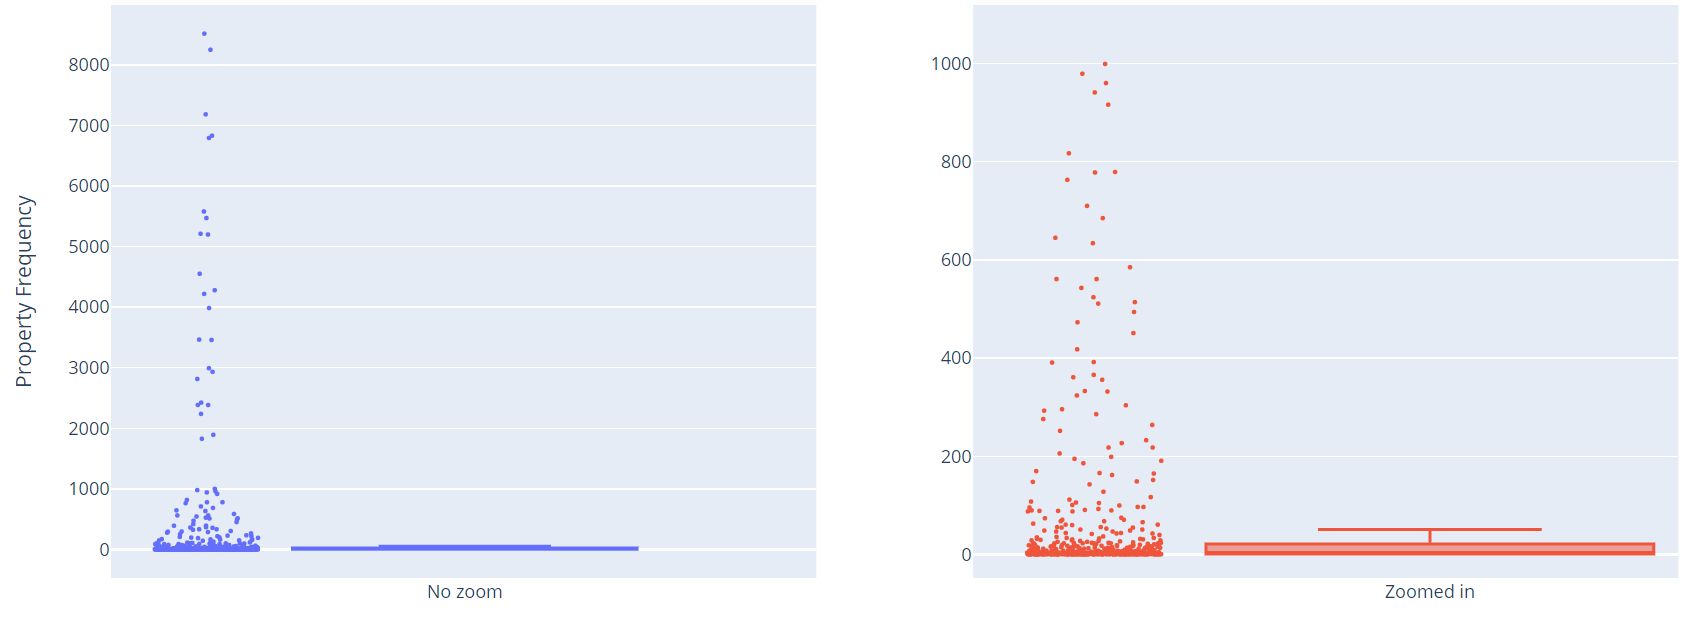
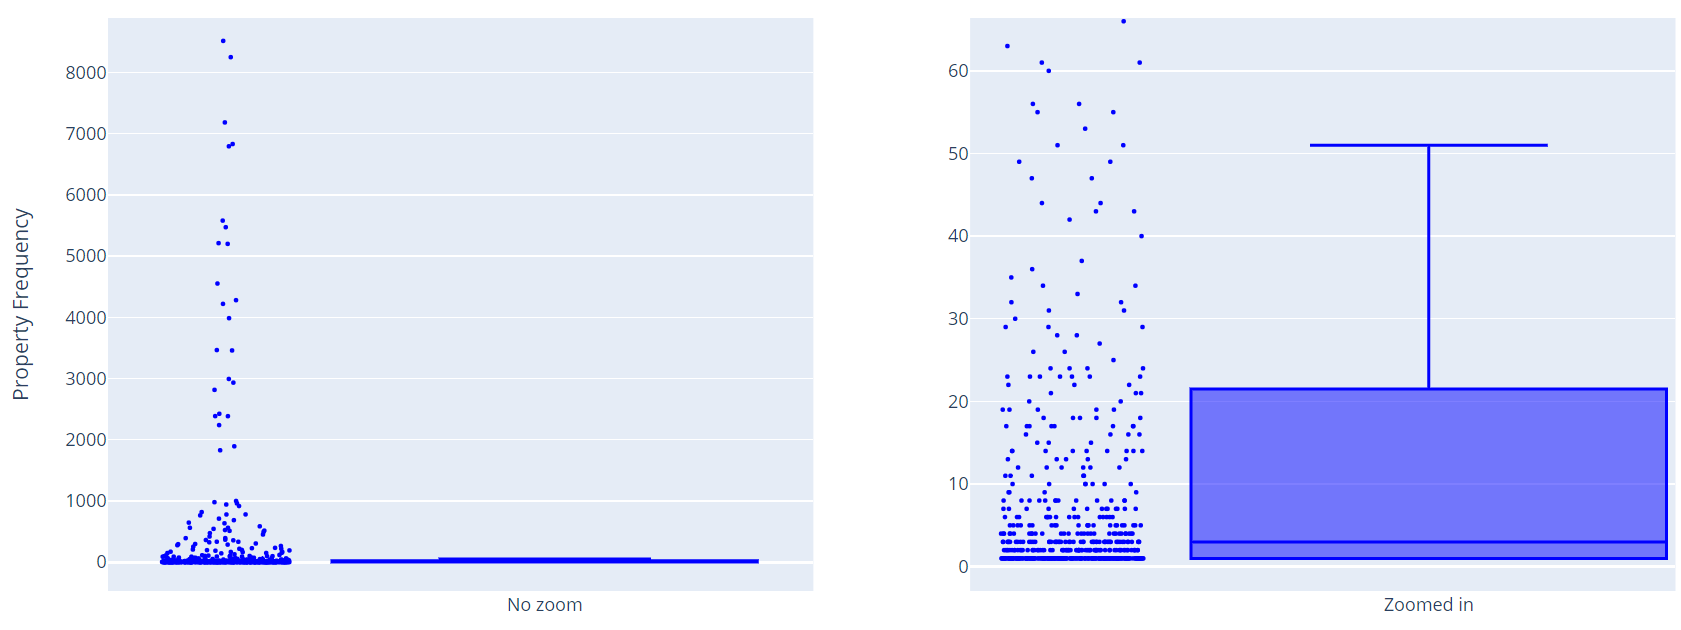
åh nej

diff --git a/FaerdigKode/DataPartiton.py b/FaerdigKode/DataPartiton.py
@@ -38,7 +38,7 @@ def getBoxplotValues(df):
     return upper_fence, overlap_range
 
 
-def splitBooleanDF(property_list, partition, external_ids = True):
+def splitBooleanDF(property_list, partition, external_ids=True):
     '''
 
     :param property_list: Input is the nested property list extracted from extractProperties()
@@ -52,11 +52,10 @@ def splitBooleanDF(property_list, partition, external_ids = True):
     df = property_count_function(property_list)
     boolean_df = getBooleanDF(property_list)
 
-
     # Define the splits - the lower is the boxplot upperfence and the upper is at the number corresponding to 25 % frequency
     lower_split = round(getBoxplotValues(df)[0], 0)  # Skal være count dataframe - svarer til Upper Fence
     upper_split = round(len(boolean_df) * 0.25, 0)  # Skal være boolean dataframe - svarer til support > 0.25
-    overlap_range = round(getBoxplotValues(df)[1], 0) # Skal være count dataframe - svarer til IQR * 1.5
+    overlap_range = round(getBoxplotValues(df)[1], 0)  # Skal være count dataframe - svarer til IQR * 1.5
 
     if partition == "lower":
         # Define lists of properties belonging to the partitions
@@ -95,6 +94,7 @@ def splitBooleanDF(property_list, partition, external_ids = True):
 
     return split_df
 
+
 def removeExternalId(boolean_df):
     property_label_dataframe = pd.read_csv(Path("../Data/properties.csv"))
     property_label_dataframe_externalIDs = property_label_dataframe[(property_label_dataframe["Type"] == "ExternalId")]
@@ -109,13 +109,22 @@ def removeExternalId(boolean_df):
     print('{} number of columns that are ID"s have been dropped'.format(drop_count))
     return boolean_df
 
+
+def countUniqueConsequents(rule_df):
+    unique_consequents = []
+    for i in rule_df.index:
+        if rule_df['consequents'][i][0] not in unique_consequents:
+            unique_consequents.append(rule_df['consequents'][i][0])
+
+    return unique_consequents
+
 def removeRulesWithId(rule_df):
     property_label_dataframe = pd.read_csv(Path("../Data/properties.csv"))
     property_label_dataframe_externalIDs = property_label_dataframe[(property_label_dataframe["Type"] == "ExternalId")]
     property_label_dataframe_externalIDs.set_index(['Value'], inplace=True)
     list_of_ids = property_label_dataframe_externalIDs.index.tolist()
 
-    #Changes the datatype of the consequents from frozenset, which is immutable, to a list.
+    # Changes the datatype of the consequents from frozenset, which is immutable, to a list.
     rule_df['consequents'] = [list(rule_df['consequents'][i]) for i in rule_df.index]
 
     amount_of_dropped_rules = 0
@@ -125,14 +134,26 @@ def removeRulesWithId(rule_df):
             rule_df = rule_df.drop([i])
             amount_of_dropped_rules += 1
 
-    print('A total amount of {} rules have been dropped'.format(amount_of_dropped_rules))
+    print('A total amount of {} rules have been dropped from the inputted dataframe'.format(amount_of_dropped_rules))
     print('The amount of rules are now {0}'.format(len(rule_df)))
 
+    unique_consequents = countUniqueConsequents(rule_df)
+    print('The rules consist of {} unique consequents'.format(len(unique_consequents)))
+
     return rule_df
+
+
+def countDuplicateRules(df1, df2):
+    test_df = pd.concat([df1, df2], ignore_index=True)
+    result = sum(test_df.duplicated(keep=False))
+
+    return result
+
 
 if __name__ == '__main__':
     # The full list of properties
     property_list = extractProperties(Path("../Data/universities_latest_all.ndjson"))
+
 
     def makeBoxPlot():
         # Uses the property_count_function to create a dataframe containing properties and their frequency.
@@ -160,9 +181,11 @@ if __name__ == '__main__':
         fig.show()
 
         fig2 = make_subplots(rows=1, cols=2)
-        fig2.add_trace(go.Box(y=property_count_df_with_labels['Frequency'], boxpoints='all', marker_size=3,
-                       jitter=0.3, name='No zoom'), row=1, col=1)
-        fig2.add_trace(go.Box(y=property_count_df_with_labels['Frequency'], boxpoints='all', marker_size=3,
+        fig2.add_trace(go.Box(y=property_count_df_with_labels['Frequency'], boxpoints='all',
+                              marker=dict(size=3, color='blue'),
+                              jitter=0.3, name='No zoom', ), row=1, col=1)
+        fig2.add_trace(go.Box(y=property_count_df_with_labels['Frequency'], boxpoints='all',
+                              marker=dict(size=3, color='blue'),
                               jitter=0.3, name='Zoomed in'), row=1, col=2)
         fig2.update_yaxes(title_text='Property Frequency',
                           row=1, col=1)
@@ -181,27 +204,21 @@ if __name__ == '__main__':
     frequent_items_lower = fpgrowth(lower_properties, min_support=0.0003, use_colnames=True)
     #
     lower_rules = association_rules(frequent_items_lower, metric="confidence", min_threshold=0.99)
-    # lower_rules["consequent_len"] = lower_rules["consequents"].apply(lambda x: len(x))
-    # lower_rules = lower_rules[(lower_rules['consequent_len'] == 1) & (lower_rules['lift'] > 1) &
-    #                           (lower_rules['leverage'] > 0)]
+    lower_rules["consequent_len"] = lower_rules["consequents"].apply(lambda x: len(x))
+    lower_rules = lower_rules[(lower_rules['consequent_len'] == 1) & (lower_rules['lift'] > 1) &
+                               (lower_rules['leverage'] > 0)]
     #
     middle_rules = association_rules(frequent_items_middle, metric="confidence", min_threshold=0.99)
-    # middle_rules["consequent_len"] = middle_rules["consequents"].apply(lambda x: len(x))
-    # middle_rules = middle_rules[(middle_rules['consequent_len'] == 1) & (middle_rules['lift'] > 1) &
-    #                             (middle_rules['leverage'] > 0)]
+    middle_rules["consequent_len"] = middle_rules["consequents"].apply(lambda x: len(x))
+    middle_rules = middle_rules[(middle_rules['consequent_len'] == 1) & (middle_rules['lift'] > 1) &
+                                 (middle_rules['leverage'] > 0)]
     #
-    # middle_rules_without_id = removeRulesWithId(middle_rules)
+    lower_rules_without_id = removeRulesWithId(lower_rules)
+    lower_rules_without_id = lower_rules_without_id.sort_values(by='leverage', ascending=False)
+
+
+    middle_rules_without_id = removeRulesWithId(middle_rules)
     # middle_rules_without_id = middle_rules_without_id.sort_values(by='antecedents', key=lambda x: x.str.len())
-    # middle_rules_without_id = middle_rules_without_id.sort_values(by='leverage', ascending=False)
+    middle_rules_without_id = middle_rules_without_id.sort_values(by='leverage', ascending=False)
 
-    #antecedents...conviction
-
-    test_lower1 = lower_rules[:30]
-    test_lower2 = lower_rules[20:50]
-
-    def countDuplicateRules(df1, df2):
-        test_df = pd.concat([df1, df2], ignore_index=True)
-        result = sum(test_df.duplicated(keep=False))
-        return result
-
-    print(countDuplicateRules(lower_rules[['antecedents', 'conviction']], lower_rules[['antecedents', 'conviction']]))
+    #print(countDuplicateRules(lower_rules[['antecedents', 'conviction']], lower_rules[['antecedents', 'conviction']]))

diff --git a/Not_Report/Spark/PySpark_presentation.py b/Not_Report/Spark/PySpark_presentation.py
@@ -21,7 +21,8 @@ num_cols = ['Number of times pregnant', 'Body mass index', 'Plasma glucose conce
             'Diastolic blood pressure', 'Triceps skinfold thickness', '2-Hour serum insulin',
             'Diabetes pedigree function', 'Age', 'Class variable']
 
-#df1.select(num_cols).describe().show()
+df1.select(num_cols).describe().show()
+df1.select(num_cols).summary().show()
 
 def histogram_count_pregnancies(df):
     df_count = df.groupBy('Number of times pregnant').count()
